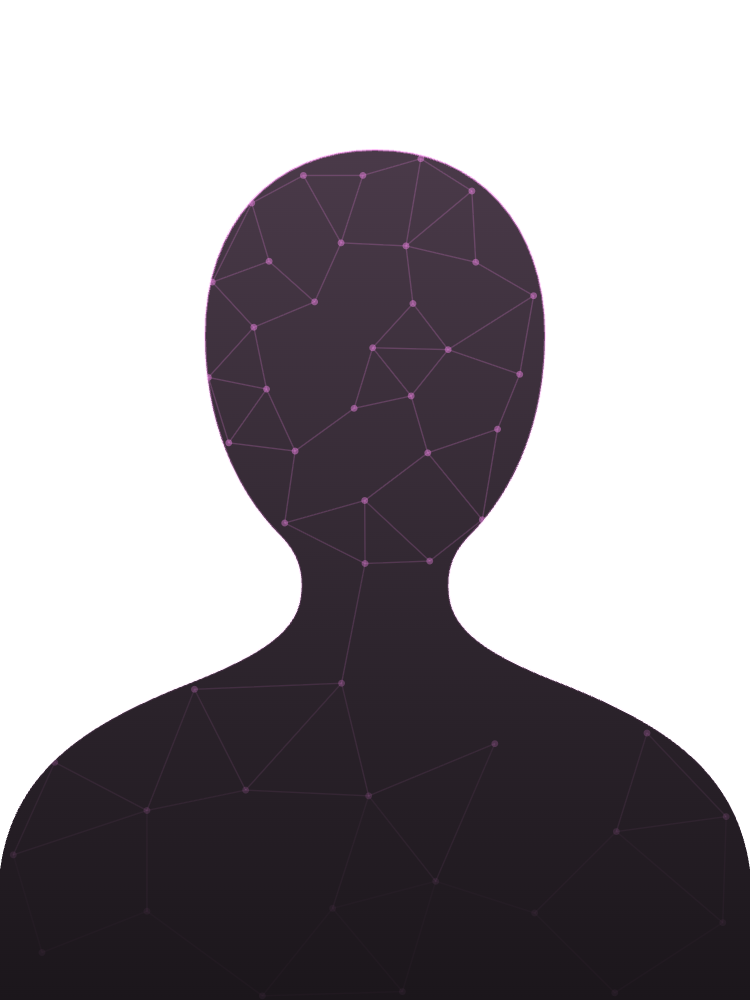
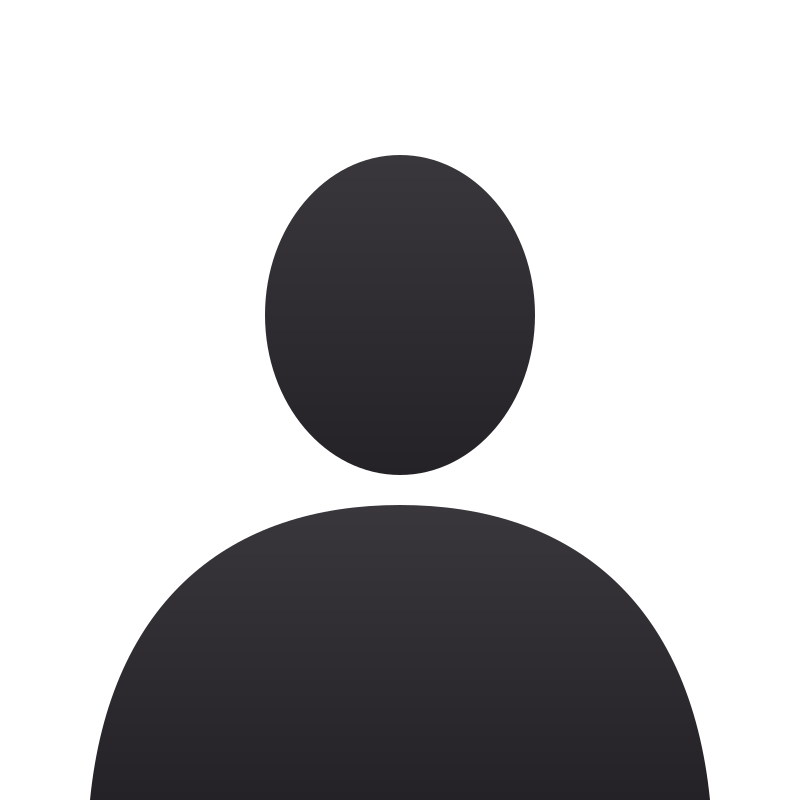
Added in further animations and team page

diff --git a/src/styles/team.css b/src/styles/team.css
@@ -19,46 +19,63 @@
 .team-page { overflow: clip; }
 .team-directory { background: radial-gradient(circle at 88% 12%, rgba(255, 0, 230, .13), transparent 34%), #0a090b; }
 .team-directory .existing-heading { margin-bottom: 2.5rem; }
-.team-explorer { --team-pink: #ff00e6; --team-soft: #ff8bf4; }
+.team-explorer { --team-pink: #ff00e6; --team-soft: #ff8bf4; --team-blush: #f6c8f0; --team-silver: #c8cdd6; }
 .team-tabs { display: none; }
 
-/* The rail is one line of nodes. A signal runs along it to reach the team that is open. */
-.team-explorer.is-ready .team-tabs { display: grid; grid-auto-columns: minmax(0, 1fr); grid-auto-flow: column; margin-bottom: 2.25rem; position: relative; }
-.team-tabs::before, .team-tabs::after { content: ""; height: 2px; left: calc(50% / var(--team-count, 7)); position: absolute; top: 1.15rem; }
-.team-tabs::before { background: rgba(255, 139, 244, .22); right: calc(50% / var(--team-count, 7)); }
-.team-tabs::after { background: var(--team-pink); box-shadow: 0 0 10px var(--team-pink); transition: width .5s cubic-bezier(.16, 1, .3, 1); width: calc((100% - 100% / var(--team-count, 7)) * var(--team-progress, 0)); }
+/* Two panels: choose a team on the left (a quarter), meet the people on the right. */
+.team-explorer.is-ready { align-items: start; display: grid; gap: 1.1rem; grid-template-columns: minmax(0, 1fr) minmax(0, 3fr); }
+.team-explorer.is-ready .team-tabs { background: #0f0d10; border: 1px solid rgba(255, 255, 255, .11); border-radius: 12px; display: flex; flex-direction: column; gap: .2rem; padding: .6rem; position: sticky; top: 6rem; }
+.team-explorer.is-ready .team-panels { background: #0f0d10; border: 1px solid rgba(255, 255, 255, .11); border-radius: 12px; min-width: 0; overflow: hidden; }
 
-.team-tab { align-items: center; background: none; border: 0; color: #cbc1ca; cursor: pointer; display: flex; flex-direction: column; font-family: inherit; gap: .65rem; padding: .7rem .4rem .6rem; position: relative; text-align: center; transition: color .25s ease; z-index: 1; }
-.team-tab i { background: #0a090b; border: 2px solid rgba(255, 139, 244, .55); border-radius: 50%; flex: none; height: .95rem; transition: background .25s ease, border-color .25s ease, box-shadow .25s ease; width: .95rem; }
-.team-tab strong { color: inherit; display: block; font-family: var(--font-display); font-size: 1rem; font-weight: 700; line-height: 1.15; }
-.team-tab small { color: #a99fa7; display: block; font-size: .72rem; line-height: 1.3; margin-top: .2rem; }
-.team-tab:hover { color: #fff; }
+.team-tab { align-items: center; background: none; border: 0; border-radius: 8px; color: var(--team-silver); cursor: pointer; display: flex; font-family: inherit; gap: .75rem; padding: .65rem .7rem; text-align: left; transition: background-color .2s ease, color .2s ease; }
+.team-tab i { background: #0a090b; border: 2px solid rgba(255, 139, 244, .55); border-radius: 50%; flex: none; height: .75rem; transition: background .2s ease, border-color .2s ease, box-shadow .2s ease; width: .75rem; }
+.team-tab strong { color: inherit; display: block; font-family: var(--font-display); font-size: .98rem; font-weight: 700; line-height: 1.15; }
+.team-tab small { color: #9ea3ad; display: block; font-size: .72rem; line-height: 1.3; margin-top: .15rem; }
+.team-tab:hover { background: rgba(255, 255, 255, .04); color: #fff; }
 .team-tab:hover i { border-color: var(--team-soft); }
 .team-tab:focus-visible { outline: 2px solid #fff; outline-offset: -2px; }
-.team-tab[aria-selected="true"] { color: #fff; }
-.team-tab[aria-selected="true"] i { background: var(--team-pink); border-color: #fff; box-shadow: 0 0 0 5px rgba(255, 0, 230, .22), 0 0 18px var(--team-pink); }
+.team-tab[aria-selected="true"] { background: rgba(255, 0, 230, .12); color: #fff; }
+.team-tab[aria-selected="true"] i { background: var(--team-pink); border-color: #fff; box-shadow: 0 0 0 4px rgba(255, 0, 230, .22), 0 0 14px var(--team-pink); }
 .team-tab[aria-selected="true"] small { color: var(--team-soft); }
 
 .team-panel + .team-panel { margin-top: 3rem; }
 .team-explorer.is-ready .team-panel + .team-panel { margin-top: 0; }
 .team-panel[hidden] { display: none; }
-.team-panel header { align-items: baseline; display: flex; flex-wrap: wrap; gap: .5rem 1rem; justify-content: space-between; margin-bottom: 1.5rem; }
-.team-panel header h3 { color: #fff; font-size: clamp(1.8rem, 3.2vw, 2.9rem); line-height: 1; margin: 0; }
-.team-panel header p { color: var(--team-soft); font-size: .85rem; font-weight: 700; margin: 0; }
+/* Each team opens with its own banner, and one connected node per person. */
+.team-panel header { align-items: center; background: linear-gradient(100deg, rgba(255, 0, 230, .24), rgba(255, 0, 230, .05) 62%, transparent); border-bottom: 1px solid rgba(255, 139, 244, .3); display: flex; flex-wrap: wrap; gap: .75rem 1.5rem; justify-content: space-between; padding: 1.1rem clamp(1rem, 2vw, 1.5rem); }
+.team-panel header .team-panel-kicker { color: var(--team-soft); font-size: .68rem; font-weight: 800; letter-spacing: .14em; margin: 0 0 .35rem; text-transform: uppercase; }
+.team-panel header h3 { color: #fff; font-size: clamp(1.5rem, 2.4vw, 2.1rem); line-height: 1; margin: 0; }
+.team-panel-count { align-items: flex-end; display: flex; flex-direction: column; gap: .45rem; }
+.team-panel-count span { align-items: center; display: flex; gap: .7rem; position: relative; }
+.team-panel-count span::before { background: rgba(255, 139, 244, .5); content: ""; height: 1px; left: .25rem; position: absolute; right: .25rem; top: 50%; }
+.team-panel-count i { background: var(--team-pink); border-radius: 50%; box-shadow: 0 0 8px rgba(255, 0, 230, .8); height: .5rem; position: relative; transition: background-color .25s ease, box-shadow .25s ease; width: .5rem; }
+/* People scrolled out of view dim their node. */
+.team-panel-count i.is-off-screen { background: #4a3a49; box-shadow: none; }
+.team-panel-count-row { align-items: center; display: flex; gap: .8rem; }
+.team-panel-arrows { display: flex; gap: .4rem; }
+.team-panel-arrows[hidden] { display: none; }
+.team-panel-arrows button { background: rgba(255, 255, 255, .06); border: 1px solid rgba(255, 139, 244, .55); border-radius: 50%; color: #fff; cursor: pointer; font-size: 1.15rem; height: 2rem; line-height: 1; transition: background-color .2s ease, border-color .2s ease; width: 2rem; }
+.team-panel-arrows button:not(:disabled):hover, .team-panel-arrows button:focus-visible { background: var(--team-pink); border-color: var(--team-pink); }
+.team-panel-arrows button:disabled { cursor: not-allowed; opacity: .3; }
+.team-panel-count p { color: var(--team-blush); font-size: .85rem; font-weight: 700; margin: 0; }
 
-/* Four to a row. Each card is a parallelogram, with its contents skewed back so they stay upright. */
-.team-profiles { --team-skew: 6deg; display: grid; gap: 1.1rem; grid-template-columns: repeat(4, minmax(0, 1fr)); list-style: none; margin: 0; padding: 0 1.25rem; }
+/* Every card shares the row's tracks for role, photo, name and degree, so they line up across a row. */
+.team-profiles { display: grid; gap: 0 1rem; grid-auto-columns: calc((100% - 3rem) / 4); grid-auto-flow: column; grid-template-rows: repeat(4, auto); list-style: none; margin: 0; overflow-x: auto; overscroll-behavior-x: contain; padding: 1.4rem clamp(1rem, 2vw, 1.5rem) .1rem; scroll-padding-inline: clamp(1rem, 2vw, 1.5rem); scroll-snap-type: x mandatory; scrollbar-width: none; }
+.team-profiles::-webkit-scrollbar { display: none; }
 
-.team-profile { background: #171317; border-radius: 10px; color: #fff; display: block; height: 100%; overflow: hidden; position: relative; text-decoration: none; transform: skewX(calc(var(--team-skew) * -1)); }
-.team-profile::after { border: 1px solid rgba(255, 255, 255, .12); border-radius: inherit; content: ""; inset: 0; pointer-events: none; position: absolute; transition: border-color .25s ease, box-shadow .25s ease; }
-a.team-profile:hover::after, a.team-profile:focus-visible::after { border-color: var(--team-pink); box-shadow: inset 0 0 28px rgba(255, 0, 230, .3); }
-a.team-profile:focus-visible { outline: 2px solid #fff; outline-offset: 2px; }
-.team-profile-photo { aspect-ratio: 4 / 5; background: linear-gradient(145deg, #322b31, #151315); display: block; overflow: hidden; }
-.team-profile-photo img { display: block; height: 100%; object-fit: cover; object-position: center top; transform: skewX(var(--team-skew)) scale(1.14); width: 100%; }
-.team-profile-text { background: linear-gradient(transparent, rgba(8, 4, 8, .94) 58%); bottom: 0; display: block; left: -12%; padding: 2.6rem 12% .9rem calc(12% + .95rem); position: absolute; right: -12%; transform: skewX(var(--team-skew)); }
-.about-team .team-profile em { color: var(--team-soft); display: block; font: 800 .66rem/1.3 var(--font-body); letter-spacing: .1em; text-transform: uppercase; }
-.about-team .team-profile strong { color: #fff; display: block; font: 700 1.08rem/1.2 var(--font-display); margin-top: .3rem; }
-.about-team .team-profile > svg { color: #fff; filter: drop-shadow(0 1px 3px #000); height: 1rem; opacity: .85; position: absolute; right: .9rem; top: .6rem; transform: skewX(var(--team-skew)); width: 1rem; }
+.team-profiles > li { display: grid; grid-row: span 4; grid-template-rows: subgrid; padding-bottom: 1.4rem; scroll-snap-align: start; }
+.team-profile { color: #fff; display: grid; grid-row: span 4; grid-template-rows: subgrid; text-align: center; text-decoration: none; }
+a.team-profile:focus-visible { outline: 2px solid #fff; outline-offset: 4px; }
+.team-profile-photo { aspect-ratio: 1; background: linear-gradient(155deg, rgba(255, 255, 255, .07), rgba(255, 255, 255, .012) 42%), #09080a; border-radius: 10px; display: block; margin: .55rem 0 .7rem; overflow: hidden; position: relative; }
+.team-profile-photo::after { border: 1px solid rgba(255, 255, 255, .1); box-shadow: inset 0 1px 0 rgba(255, 255, 255, .08); border-radius: inherit; content: ""; inset: 0; pointer-events: none; position: absolute; transition: border-color .25s ease, box-shadow .25s ease; }
+a.team-profile:hover .team-profile-photo::after, a.team-profile:focus-visible .team-profile-photo::after { border-color: var(--team-pink); box-shadow: inset 0 0 28px rgba(255, 0, 230, .3); }
+/* Sits 10% higher than the frame, and is taller by the same amount so the bottom stays filled. */
+.team-profile-photo img { display: block; height: 110%; left: 0; object-fit: cover; object-position: center top; position: absolute; top: -10%; width: 100%; }
+.about-team .team-profile em { align-self: end; color: var(--team-silver); display: block; font: 800 .7rem/1.3 var(--font-body); letter-spacing: .1em; text-transform: uppercase; }
+.about-team .team-profile strong { color: var(--team-soft); display: block; font: 700 1rem/1.2 var(--font-display); }
+.about-team .team-profile small { color: #cbc1ca; display: block; font-size: .8rem; line-height: 1.35; margin-top: .2rem; }
+.about-team .team-profile small span { color: inherit; display: block; font: inherit; letter-spacing: inherit; }
+.about-team .team-profile-photo svg { color: #fff; filter: drop-shadow(0 1px 3px #000); height: 1rem; opacity: .85; position: absolute; right: .9rem; top: .6rem; width: 1rem; }
 
 /* Profiles rise in each time a team opens, like cards elsewhere on the site. */
 html.motion .team-panel:not([hidden]) .team-profiles li { animation: motion-pop .7s cubic-bezier(.16, 1, .3, 1) backwards; }
@@ -70,19 +87,28 @@ html.motion .team-tab[aria-selected="true"] i { animation: team-node-pulse 2.2s 
 @keyframes team-node-pulse { 50% { box-shadow: 0 0 0 9px rgba(255, 0, 230, .08), 0 0 26px #ff00e6; } }
 
 @media (max-width: 1000px) {
-  .team-profiles { grid-template-columns: repeat(3, minmax(0, 1fr)); }
+  .team-profiles { grid-auto-columns: calc((100% - 2rem) / 3); }
 }
 
 @media (max-width: 800px) {
-  /* The rail scrolls sideways on phones, so its line stays out of the way. */
-  .team-explorer.is-ready .team-tabs { display: flex; gap: .5rem; margin: 0 -1rem 1.25rem; overflow-x: auto; padding: .25rem 1rem .75rem; scrollbar-width: none; }
-  .team-tabs::before, .team-tabs::after { display: none; }
-  .team-tab { border: 1px solid rgba(255, 139, 244, .25); border-radius: 999px; flex: none; flex-direction: row; gap: .55rem; padding: .55rem .9rem; }
+  /* The panels stack on phones, and the team list scrolls sideways. */
+  .team-explorer.is-ready { display: block; }
+  .team-panel-count { align-items: flex-start; }
+  .team-explorer.is-ready .team-tabs { background: none; border: 0; flex-direction: row; gap: .5rem; margin: 0 -1rem .9rem; overflow-x: auto; padding: .25rem 1rem .5rem; position: static; scrollbar-width: none; }
+  .team-tab { border: 1px solid rgba(255, 139, 244, .25); border-radius: 999px; flex: none; gap: .55rem; padding: .55rem .9rem; }
   .team-tab small { display: none; }
   .team-tab strong { font-size: .95rem; white-space: nowrap; }
   .team-tab i { height: .6rem; width: .6rem; }
-  .team-profiles { --team-skew: 4deg; gap: .7rem; grid-template-columns: repeat(2, minmax(0, 1fr)); padding: 0 .6rem; }
-  .team-profile-text { padding: 2rem 12% .7rem calc(12% + .7rem); }
+  .team-profiles { gap: 0 .7rem; grid-auto-columns: calc((100% - .7rem) / 2); }
+  .team-profiles > li { padding-bottom: 1.1rem; }
   .about-team .team-profile strong { font-size: .95rem; }
   .about-team .team-profile em { font-size: .58rem; }
+  .about-team .team-profile small { font-size: .7rem; }
+}
+
+/* The team photo takes most of the row, giving back only what "Meet the" needs to stay on one line. */
+@media (min-width: 901px) {
+  .team-hero .team-hero-layout { gap: clamp(1.5rem, 2.5vw, 2.5rem); grid-template-columns: minmax(min-content, .7fr) minmax(0, 1.3fr); }
+  .team-hero h1 { white-space: nowrap; }
+  .team-hero h1 span { display: block; }
 }

diff --git a/src/scripts/team/team-tabs.js b/src/scripts/team/team-tabs.js
@@ -1,5 +1,5 @@
 // src/scripts/team/team-tabs.js
-// Team tabs along a rail. Without JavaScript the tabs stay hidden and every team is listed.
+// Team list beside the people. Without JavaScript the tabs stay hidden and every team is listed.
 
 document.addEventListener("DOMContentLoaded", () => {
   const explorer = document.getElementById("team-explorer");
@@ -7,8 +7,78 @@ document.addEventListener("DOMContentLoaded", () => {
 
   const tabs = [...explorer.querySelectorAll(".team-tab")];
   const panels = [...explorer.querySelectorAll(".team-panel")];
-  const rail = explorer.querySelector(".team-tabs");
-  rail.style.setProperty("--team-count", tabs.length);
+
+  const AUTO_ADVANCE_MS = 6000;
+  let isExplorerVisible = false;
+
+  // Teams wider than the panel scroll sideways. The arrows and nodes follow the scroll position.
+  const rosters = panels.map((panel) => {
+    const scroller = panel.querySelector(".team-profiles");
+    const arrows = panel.querySelector(".team-panel-arrows");
+    const previous = panel.querySelector("[data-team-previous]");
+    const next = panel.querySelector("[data-team-next]");
+    const people = [...scroller.children];
+    const nodes = [...panel.querySelectorAll(".team-panel-count i")];
+
+    function sync() {
+      if (panel.hidden) return;
+      const furthest = scroller.scrollWidth - scroller.clientWidth;
+      arrows.hidden = furthest <= 1;
+      previous.disabled = scroller.scrollLeft <= 1;
+      next.disabled = scroller.scrollLeft >= furthest - 1;
+      const view = scroller.getBoundingClientRect();
+      people.forEach((person, index) => {
+        const { left, right } = person.getBoundingClientRect();
+        nodes[index]?.classList.toggle("is-off-screen", right > view.right + 2 || left < view.left - 2);
+      });
+    }
+
+    function move(direction) {
+      const behavior = document.documentElement.classList.contains("motion") ? "smooth" : "auto";
+      scroller.scrollBy({ left: direction * scroller.clientWidth, behavior });
+    }
+
+    previous.addEventListener("click", () => move(-1));
+    next.addEventListener("click", () => move(1));
+    scroller.addEventListener("scroll", () => requestAnimationFrame(sync), { passive: true });
+    // Rotates through a long team every few seconds, until someone takes over.
+    let timer = 0;
+    let isPaused = false;
+    const stopTimer = () => { clearTimeout(timer); timer = 0; };
+    function queueAdvance() {
+      stopTimer();
+      const furthest = scroller.scrollWidth - scroller.clientWidth;
+      if (!isExplorerVisible || isPaused || panel.hidden || furthest <= 1 || !document.documentElement.classList.contains("motion")) return;
+      timer = setTimeout(() => {
+        if (scroller.scrollLeft >= furthest - 1) scroller.scrollTo({ left: 0, behavior: "smooth" });
+        else move(1);
+        queueAdvance();
+      }, AUTO_ADVANCE_MS);
+    }
+    function takeOver() {
+      isPaused = true;
+      stopTimer();
+    }
+
+    previous.addEventListener("click", takeOver);
+    next.addEventListener("click", takeOver);
+    ["pointerdown", "focusin"].forEach((type) => scroller.addEventListener(type, takeOver, { passive: true }));
+    scroller.addEventListener("wheel", (event) => { if (Math.abs(event.deltaX) > Math.abs(event.deltaY)) takeOver(); }, { passive: true });
+
+    function restart() {
+      isPaused = false;
+      scroller.scrollLeft = 0;
+      queueAdvance();
+    }
+    return { sync, queueAdvance, stopTimer, restart, panel };
+  });
+  window.addEventListener("resize", () => rosters.forEach(({ sync }) => sync()));
+
+  // The wait only starts once the people are on screen.
+  new IntersectionObserver(([entry]) => {
+    isExplorerVisible = entry.isIntersecting;
+    rosters.forEach(({ queueAdvance, stopTimer }) => (isExplorerVisible ? queueAdvance() : stopTimer()));
+  }, { threshold: 0.35 }).observe(explorer);
 
   function selectTab(tab, shouldFocus = false) {
     tabs.forEach((other) => {
@@ -17,14 +87,18 @@ document.addEventListener("DOMContentLoaded", () => {
       other.tabIndex = isSelected ? 0 : -1;
     });
     panels.forEach((panel) => { panel.hidden = panel.id !== tab.getAttribute("aria-controls"); });
-    rail.style.setProperty("--team-progress", tabs.indexOf(tab) / Math.max(tabs.length - 1, 1));
+    rosters.forEach(({ sync, restart, stopTimer, panel }) => {
+      stopTimer();
+      if (!panel.hidden) restart();
+      sync();
+    });
     if (shouldFocus) tab.focus();
   }
 
   tabs.forEach((tab, index) => {
     tab.addEventListener("click", () => {
       selectTab(tab);
-      // On phones the rail scrolls sideways, so keep the chosen team in view.
+      // On phones the list scrolls sideways, so keep the chosen team in view.
       if (window.matchMedia("(max-width: 800px)").matches) {
         tab.scrollIntoView({ behavior: "smooth", block: "nearest", inline: "center" });
       }

diff --git a/src/styles/events.css b/src/styles/events.css
@@ -1205,8 +1205,15 @@
 .calendar-day:focus-visible { outline: 2px solid var(--event-pink-soft); outline-offset: 2px; }
 .calendar-day.has-event { border-color: rgba(240,0,213,.35); background: linear-gradient(145deg, rgba(181,0,168,.2), #171217 78%); }
 .calendar-day:hover { border-color: rgba(255,139,244,.55); background: #211821; }
+/* Event days are filled in the legend's colours: light pink coming up, light grey past. */
+.calendar-day.is-upcoming { border-color: var(--event-pink-soft); background: var(--event-pink-soft); }
+.calendar-day.is-past { border-color: #8d8390; background: #8d8390; }
+.calendar-day:is(.is-upcoming, .is-past):hover { border-color: #fff; }
+.calendar-day:is(.is-upcoming, .is-past) .calendar-date,
+.calendar-day:is(.is-upcoming, .is-past) .calendar-event,
+.calendar-day:is(.is-upcoming, .is-past) .calendar-more { border-left-color: #20081b; color: #20081b; }
 .calendar-day.is-today { border: 1px dashed #fff; }
-.calendar-day.is-selected { border-color: var(--event-pink); background: var(--event-pink); color: #20081b; }
+.calendar-day.is-selected { border-color: var(--event-pink); background: var(--event-pink); box-shadow: 0 0 0 2px #fff; color: #20081b; }
 .calendar-date { color: #ddd1dc; font-size: .84rem; font-weight: 800; line-height: 1; }
 .calendar-event { display: -webkit-box; overflow: hidden; padding-left: .35rem; border-left: 2px solid var(--event-pink-soft); color: #f7e8f4; font-size: .68rem; font-weight: 600; line-height: 1.2; overflow-wrap: anywhere; -webkit-box-orient: vertical; -webkit-line-clamp: 2; }
 /* Keeps tiles the same height when two events share a day. */
@@ -1248,6 +1255,12 @@
 .events-page .events-panel::before { display: none; }
 .events-page .events-list { overflow: hidden; width: 100%; margin: 1.6rem 0 0; padding: 0; border: 1px solid rgba(255,255,255,.15); border-radius: .8rem; background: #100d10; list-style: none; }
 .events-page .events-list:empty { display: none; }
+/* The list and page buttons keep one height, so the box doesn't jump between pages or filters. */
+.events-page { --events-list-height: 25rem; }
+.events-page .events-list, .events-page .no-events-state { box-sizing: border-box; min-height: var(--events-list-height); }
+.events-page .no-events-state { align-content: center; margin-top: 1.6rem; }
+.events-page #events-pagination { box-sizing: border-box; display: flex; height: 3.2rem; margin: 1rem 0 .4rem; min-height: 0; padding: 0; }
+.events-page #events-pagination[hidden] { display: none; }
 .event-list-date { padding: .4rem 1rem; background: #1e161e; color: #fff; font-family: var(--font-display); font-size: .9rem; font-weight: 700; }
 .event-list-date:not(:first-child), .event-row { border-top: 1px solid rgba(255,255,255,.12); }
 .event-row { display: grid; grid-template-columns: 13rem auto minmax(0, 1fr) auto; grid-template-areas: "date date date date" "time dot title meta"; align-items: center; gap: .2rem .9rem; padding: .45rem 1rem; color: #d1c5cf; font-size: .88rem; }
@@ -1272,7 +1285,7 @@ html.motion .calendar-details > * { animation: calendar-detail-in .28s ease both
 @media (max-width: 1100px) {
   .calendar-event { width: .42rem; height: .42rem; padding: 0; border: 0; border-radius: 50%; background: var(--event-pink-soft); font-size: 0; }
   .calendar-event.is-past { background: #8d8390; }
-  .calendar-day.is-selected .calendar-event { background: #20081b; }
+  .calendar-day:is(.is-selected, .is-upcoming, .is-past) .calendar-event { background: #20081b; }
   .calendar-more { display: none; }
 }
 @media (max-width: 700px) {
@@ -1285,9 +1298,9 @@ html.motion .calendar-details > * { animation: calendar-detail-in .28s ease both
   .calendar-day { align-items: center; height: 3rem; padding: .4rem .1rem; text-align: center; }
   .event-filter-bar .search-wrapper { flex-basis: 100%; max-width: none; }
   .event-filter-select { flex: 1 1 0; min-width: 0; }
+  .events-page { --events-list-height: 42.5rem; }
   .event-list-date, .event-row { padding-inline: 1rem; }
   .event-row, .events-list.is-grouped .event-row { grid-template-columns: auto minmax(0, 1fr); grid-template-areas: "dot title" ". time" ". meta"; }
   .event-row-meta { text-align: left; }
   .event-row-time:empty { display: none; }
 }
-.events-page #events-pagination { margin-top: .7rem; }

diff --git a/src/scripts/assistant/assistant-engine.js b/src/scripts/assistant/assistant-engine.js
@@ -706,7 +706,8 @@ function peopleAnswer(parsed, index) {
       const byYear = [...new Set(record.map((member) => member.year))].sort();
       const yearsText = plural(byYear.length, "year");
       const roleText = byYear.map((year) => `${year}: ${joinList([...new Set(record.filter((member) => member.year === year).map((member) => member.role))])}`).join("; ");
-      return `${record[0].cleanName}${founder ? " is a co-founder of AIML and" : ""} has served ${yearsText} on the team. ${roleText}.`;
+      const degree = record.find((member) => member.degree)?.degree;
+      return `${record[0].cleanName}${founder ? " is a co-founder of AIML and" : ""} has served ${yearsText} on the team. ${roleText}.${degree ? ` Degree: ${degree}.` : ""}`;
     }).filter(Boolean), items: (() => {
       const link = index.members.find((member) => member.nameNorm === people[0] && member.linkedin);
       return people.length === 1 && link ? [{ label: `${link.cleanName} on LinkedIn`, url: link.linkedin }] : [];
@@ -1009,7 +1010,7 @@ function fixedTopicAnswer(parsed, index) {
     return answerWith("The ML Sandbox has four browser-based demos: a K-means clustering visualiser, a live digit classifier, a city route planner, and a decision boundary playground. Nothing you enter leaves your device.", { sources: [PAGES.sandbox] });
   }
 
-  if (parsed.has("degree", "degrees", "course", "courses", "study", "bachelor", "bachelors", "master", "masters", "pathway", "pathways")) {
+  if (!findPeople(parsed, index).length && parsed.has("degree", "degrees", "course", "courses", "study", "bachelor", "bachelors", "master", "masters", "pathway", "pathways")) {
     const level = kb.degrees.filter((group) => parsed.has(normalize(group.title), stem(normalize(group.title))));
     const groups = level.length ? level : kb.degrees;
     const items = groups.flatMap((group) => group.items.map((item) => ({ label: item.name.replace(/^Coming Soon - /, ""), detail: `${group.title}${item.name.startsWith("Coming Soon") ? " · Coming soon" : ""}` })));

diff --git a/src/styles/components/navbar.css b/src/styles/components/navbar.css
@@ -617,3 +617,51 @@ body.no-scroll {
     }
 
 }
+
+/* ----------------------------- */
+/*   DARK GLASS AND HEADING FONT */
+/* ----------------------------- */
+
+.navbar {
+  background: rgba(14, 11, 16, .68);
+  -webkit-backdrop-filter: blur(18px) saturate(150%);
+  backdrop-filter: blur(18px) saturate(150%);
+  border-bottom: 1px solid rgba(255, 255, 255, .1);
+  box-shadow: inset 0 1px 0 rgba(255, 255, 255, .05), 0 8px 24px rgba(0, 0, 0, .25);
+  font-family: var(--font-display);
+  font-weight: 600;
+  letter-spacing: .03em;
+}
+
+.navbar a,
+.navbar span { font-family: var(--font-display); }
+
+@media (max-width: 1220px) {
+  .navbar { background: rgba(14, 11, 16, .68); }
+  .mobile-header { background: transparent; }
+  /* The open menu covers the page, so it stays dark enough to read over anything. */
+  /* Centred on the whole screen. Equal padding keeps the links clear of the logo on short screens. */
+  .main-links {
+    -webkit-backdrop-filter: blur(18px) saturate(150%);
+    backdrop-filter: blur(18px) saturate(150%);
+    background: rgba(14, 11, 16, .88);
+    height: 100dvh;
+    justify-content: safe center;
+    overflow-y: auto;
+    padding-bottom: 5rem;
+    padding-top: 5rem;
+  }
+  /* These on the parent would stop the open menu blurring the page behind it. */
+  .navbar:has(.main-links.show) {
+    -webkit-backdrop-filter: none;
+    backdrop-filter: none;
+    view-transition-name: none;
+  }
+}
+
+@media (min-width: 1221px) {
+  .main-links > li > a,
+  .navbar .btn-outline,
+  .navbar .btn-outline span { font-size: .72rem; }
+  .navbar .btn-outline { padding: .4rem 1.1rem; }
+}

diff --git a/src/styles/partners.css b/src/styles/partners.css
@@ -551,6 +551,8 @@ body.modal-open {
   .partner-page { padding-bottom: 4rem; }
   .partner-hero { display: block; margin-bottom: 4rem; min-height: 0; padding: 2rem 1rem 3rem; }
   .partner-hero-art { margin: 4rem auto 0; max-width: 19rem; }
+  /* Its desktop position hangs past the circle, which widened the whole page on phones. */
+  .partner-hero-art span { right: 0; }
   .partner-section { padding: 0 1rem; }
   .partner-callout { margin-left: 1rem; margin-right: 1rem; }
   .sponsor-spotlight { box-shadow: .55rem .55rem 0 rgba(91, 0, 82, .28); }

diff --git a/src/scripts/events/events-script.js b/src/scripts/events/events-script.js
@@ -286,7 +286,7 @@ document.addEventListener("DOMContentLoaded", () => {
         day.classList.add('is-today');
         day.setAttribute('aria-current', 'date');
       }
-      if (events.length) day.classList.add('has-event');
+      if (events.length) day.classList.add('has-event', events.some((event) => event.end >= today) ? 'is-upcoming' : 'is-past');
       events.slice(0, 2).forEach((event) => {
         day.appendChild(createElement('span', `calendar-event ${event.end < today ? 'is-past' : 'is-upcoming'}`, event.title));
       });

diff --git a/src/pages/assistant-knowledge.json.js b/src/pages/assistant-knowledge.json.js
@@ -35,7 +35,7 @@ export async function GET() {
         title: group.title,
         members: group.items
           .filter((member) => member.showOnAbout !== false)
-          .map(({ role, name, linkedin }) => ({ role, name, linkedin: linkedin ?? null })),
+          .map(({ role, name, linkedin, degree }) => ({ role, name, linkedin: linkedin ?? null, degree: degree ?? null })),
       })),
     })),
     partners: partners.map(({ name, tier, url, tag, description }) => ({ name, tier, url, tag, description })),

diff --git a/content/README.md b/content/README.md
@@ -83,7 +83,7 @@ For a new semester whose projects aren't announced yet, create the folder with
 ## New executive team (each year)
 
 1. Copy last year's folder, e.g. `team/2027` → `team/2028`.
-2. Edit `team.json`: names, roles, LinkedIn links, groups.
+2. Edit `team.json`: names, roles, LinkedIn links, groups, and an optional `degree` shown under the name.
 3. Replace the headshots, and the group photo as `team-photo.jpg` (or `.png`).
 4. Delete any headshots you no longer need.
 
